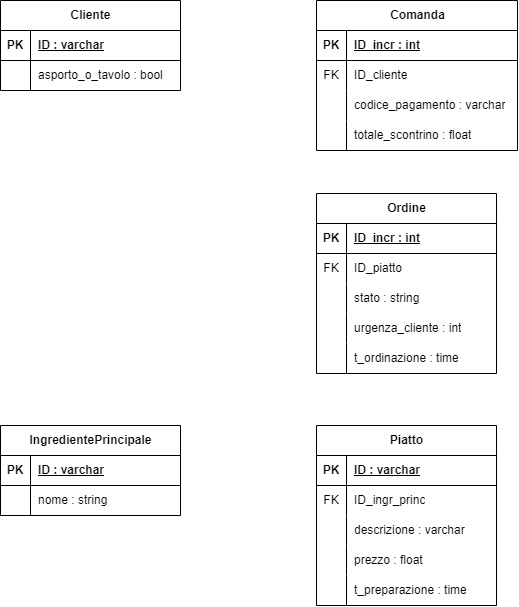
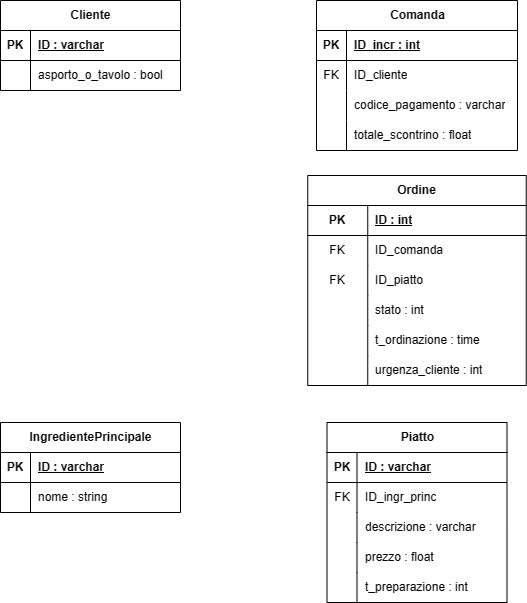
modifiche modello logico e implementativo database

diff --git a/Documentation/iterazione1/database.tex b/Documentation/iterazione1/database.tex
@@ -27,46 +27,45 @@ Rappresentazione della struttura dei dati all’interno del database. L’attrib
 Il modello logico è implementato con le seguenti query al database:
 
 \begin{lstlisting}[language=SQL,caption=Query del database in SQL,label=lst:sqlcode]
-	CREATE TABLE IF NOT EXISTS Cliente(
-	ID varchar(10) PRIMARY KEY,
-	t_o_a boolean NOT NULL
-	);
-	
-	CREATE TABLE IF NOT EXISTS Comanda (
-	ID int(10) AUTO_INCREMENT,
-	ID_cliente varchar(10) NOT NULL,
-	codice_pagamento varchar(255) DEFAULT NULL,
-	totale_scontrino float DEFAULT 0.0,
-	PRIMARY KEY (ID),
-	FOREIGN KEY (ID_cliente) REFERENCES Cliente(ID)
-	);
-	
-	CREATE TABLE IF NOT EXISTS IngredientePrincipale(
-	ID varchar(20) PRIMARY KEY,
-	nome varchar(20) NOT NULL
-	);
-	
-	CREATE TABLE IF NOT EXISTS Piatto(
-	ID varchar(20) NOT NULL PRIMARY KEY,
-	ID_ingr_princ varchar(20) NOT NULL,
-	descrizione varchar(50),
-	prezzo float(6) NOT NULL,
-	t_preparazione TIMESTAMP DEFAULT CURRENT_TIMESTAMP,
-	FOREIGN KEY (ID_ingr_princ) REFERENCES IngredientePrincipale(ID)
-	);
-	
-	CREATE TABLE IF NOT EXISTS Ordine(
-	ID int(10) NOT NULL AUTO_INCREMENT,
-	ID_comanda int(10) NOT NULL,
-	ID_piatto varchar(20) NOT NULL,
-	stato int(1) DEFAULT 0, -- 0=in preparazione, 1=completato
-	t_ordinazione TIMESTAMP DEFAULT CURRENT_TIMESTAMP,
-	urgenza_cliente int(2) DEFAULT 0, -- priorita' del cliente: 1=massima, -1=minima
-	PRIMARY KEY (ID,ID_comanda),
-	FOREIGN KEY (ID_comanda) REFERENCES Comanda(ID),
-	FOREIGN KEY (ID_piatto) REFERENCES Piatto(ID),
-	CHECK (stato >= 0 AND stato <=1 )
-	);
+CREATE TABLE IF NOT EXISTS Cliente(
+    ID varchar(10) PRIMARY KEY,
+    t_o_a boolean NOT NULL
+);
+
+CREATE TABLE IF NOT EXISTS Comanda (
+    ID int(10) AUTO_INCREMENT,
+    ID_cliente varchar(10) NOT NULL,
+    codice_pagamento varchar(255) DEFAULT NULL,
+    totale_scontrino float DEFAULT 0.0,
+    PRIMARY KEY (ID),
+    FOREIGN KEY (ID_cliente) REFERENCES Cliente(ID)
+);
+
+CREATE TABLE IF NOT EXISTS IngredientePrincipale(
+    ID varchar(20) primary key,
+    nome varchar(20) not NULL
+);
+
+CREATE TABLE IF NOT EXISTS Piatto(
+    ID varchar(20) NOT NULL PRIMARY KEY,
+    ID_ingr_princ varchar(20) NOT NULL,
+    descrizione varchar(50),
+    prezzo float(6) NOT NULL,
+    t_preparazione int,
+    FOREIGN KEY (ID_ingr_princ) REFERENCES IngredientePrincipale(ID)
+);
+
+CREATE TABLE IF NOT EXISTS Ordine(
+    ID int(10) NOT NULL AUTO_INCREMENT PRIMARY KEY,
+    ID_comanda int(10) NOT NULL,
+    ID_piatto varchar(20) NOT NULL,
+    stato int(1) DEFAULT 0, -- 0=creato, 1=in coda, 2=in preparazione, 3=completato
+    t_ordinazione TIMESTAMP DEFAULT CURRENT_TIMESTAMP,
+    urgenza_cliente int(2) DEFAULT 0, -- priorità del cliente: 1=massima, -1=minima
+    FOREIGN KEY (ID_comanda) REFERENCES Comanda(ID),
+    FOREIGN KEY (ID_piatto) REFERENCES Piatto(ID),
+    CHECK (stato >= 0 AND stato <= 3 )
+);
 \end{lstlisting}
 
 \clearpage
